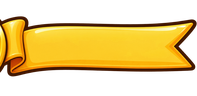
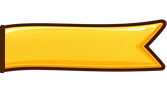
배포: v0.9.299 똥피력 리본 왼쪽 접힌 조각 없앰(깔끔한 끝), 무지개 구름 두 개 모양 다르게, MAX 빛 번짐 대신 반짝이 별

Changed region(s): [[0.0, 0.1562, 1.0, 0.8125], [0.2994, 0.6562, 0.6886, 0.75], [0.8084, 0.7188, 0.8683, 0.75]]

diff --git a/index.html b/index.html
@@ -1159,10 +1159,12 @@
   #startScreen #meBtn { gap: 0; }
   #startScreen #meRb { position: relative; z-index: 2; flex: none; width: 46px; height: 30px; margin: -4px -12px 0 -4px; display: block; }   /* v0.9.298 메달 없이 무지개만 */
   #startScreen #meRb svg { width: 100%; height: 100%; overflow: visible; filter: drop-shadow(0 2px 2px rgba(0,0,0,.4)); }
-  #startScreen #meRb.max svg { filter: drop-shadow(0 2px 2px rgba(0,0,0,.4)) drop-shadow(0 0 4px rgba(255,240,150,.9)); }
+  #startScreen #meRb .spk { animation: rbSpk 1.6s ease-in-out infinite; transform-box: fill-box; transform-origin: center; }
+  #startScreen #meRb .spk.b { animation-delay: .8s; }
+  @keyframes rbSpk { 0%, 100% { opacity: .2; transform: scale(.6); } 50% { opacity: 1; transform: scale(1.1); } }
   #startScreen #meBtn b { height: 30px; box-sizing: border-box; display: block; padding: 0 2px 0 13px; border-radius: 0; background: none; box-shadow: none;
-    border-style: solid; border-color: transparent; border-width: 0 11px 0 6px;
-    border-image: url(assets/ui/rank_ribbon.webp) 0 34 0 20 fill / 0 11px 0 6px / 0 stretch;
+    border-style: solid; border-color: transparent; border-width: 0 11px 0 3px;
+    border-image: url(assets/ui/rank_ribbon.webp) 0 34 0 8 fill / 0 11px 0 3px / 0 stretch;   /* v0.9.299 접힌 조각 없이 깔끔한 끝 */
     line-height: 30px; font-size: 12.5px; font-weight: 900; color: #5a2a00; text-shadow: 0 1px 0 rgba(255,240,190,.7); white-space: nowrap;
     filter: drop-shadow(0 2px 3px rgba(0,0,0,.45)); }
   #startScreen #coinBox { top: calc(max(8px, env(safe-area-inset-top)) + 36px) !important; }   /* v0.9.133 이름 칩은 코인처럼 모든 탭에 */
@@ -2572,7 +2574,7 @@
   const elTitle = document.getElementById("overTitle");
   const coinNote = document.getElementById("coinNote");
 
-  const GAME_VERSION = "v0.9.298";
+  const GAME_VERSION = "v0.9.299";
   /* 제작사 스플래시(bamhobak friends 로고) — 2026-09-20 끔. 다시 켜려면 true */
   const SPLASH_USE = false;   // 코드를 고칠 때마다 뒤 두 자리를 올린다
   document.getElementById("ver").textContent = GAME_VERSION;
@@ -3962,9 +3964,16 @@
       p += '<path d="' + arc(r) + '" stroke="' + (i < n ? RB7[i] : "#e9e4ff") + '" stroke-opacity="' + (i < n ? 1 : .3) + '" stroke-width="' + (W + .35) + '" fill="none"/>';
     }
     p += '<path d="' + arc(R0 - W * .6) + '" stroke="rgba(255,255,255,.55)" stroke-width=".8" fill="none" stroke-dasharray="7 30" stroke-linecap="round"/>';   // 반짝 하이라이트
-    const cloud = (x, y, k) => '<g transform="translate(' + x + " " + y + ") scale(" + k + ')">'
-      + '<path d="M-7 3a4 4 0 0 1 1-7a5 5 0 0 1 9-1a4 4 0 0 1 5 5a3 3 0 0 1-1 6h-12a3 3 0 0 1-2-3z" fill="#fff" stroke="#3a1d4a" stroke-width="1.6" stroke-linejoin="round"/></g>';
-    p += cloud(cx - R0 + W * 3.2, cy + 1.5, .95) + cloud(cx + R0 - W * 3.4, cy + 2, 1.05);
+    const cloud = (x, y, k, d) => '<g transform="translate(' + x + " " + y + ") scale(" + k + ')">'
+      + '<path d="' + d + '" fill="#fff" stroke="#3a1d4a" stroke-width="1.6" stroke-linejoin="round"/></g>';
+    // v0.9.299 두 구름 모양을 다르게 — 왼쪽은 낮고 넓은 세 덩이, 오른쪽은 높이 솟은 두 덩이
+    const CL = "M-9 4a3 3 0 0 1 0-6a3.5 3.5 0 0 1 5.5-2.5a4 4 0 0 1 7 .5a3 3 0 0 1 5 2.5a2.5 2.5 0 0 1-.5 5.5h-15a2.5 2.5 0 0 1-2-0z";
+    const CR = "M-6 4a3.5 3.5 0 0 1-1-6.5a5.5 5.5 0 0 1 10-3a4.5 4.5 0 0 1 4.5 6a3 3 0 0 1-.5 3.5z";
+    p += cloud(cx - R0 + W * 3.2, cy + 1.8, .92, CL) + cloud(cx + R0 - W * 3.2, cy + 1.6, 1.08, CR);
+    if (n >= 7) {                                // MAX — 반짝이 별 둘 (빛 번짐 대신)
+      const st = (x, y, r, c) => '<path class="spk' + c + '" d="M' + x + " " + (y - r) + "Q" + x + " " + y + " " + (x + r) + " " + y + "Q" + x + " " + y + " " + x + " " + (y + r) + "Q" + x + " " + y + " " + (x - r) + " " + y + "Q" + x + " " + y + " " + x + " " + (y - r) + 'z" fill="#fff6b0" stroke="#3a1d4a" stroke-width=".7"/>';
+      p += st(8, 7, 3.6, "") + st(43, 4, 2.8, " b");
+    }
     return '<svg viewBox="0 0 50 32" aria-hidden="true"><g transform="rotate(-7 25 18)">' + p + "</g></svg>";
   }
   function setMeChip() {
